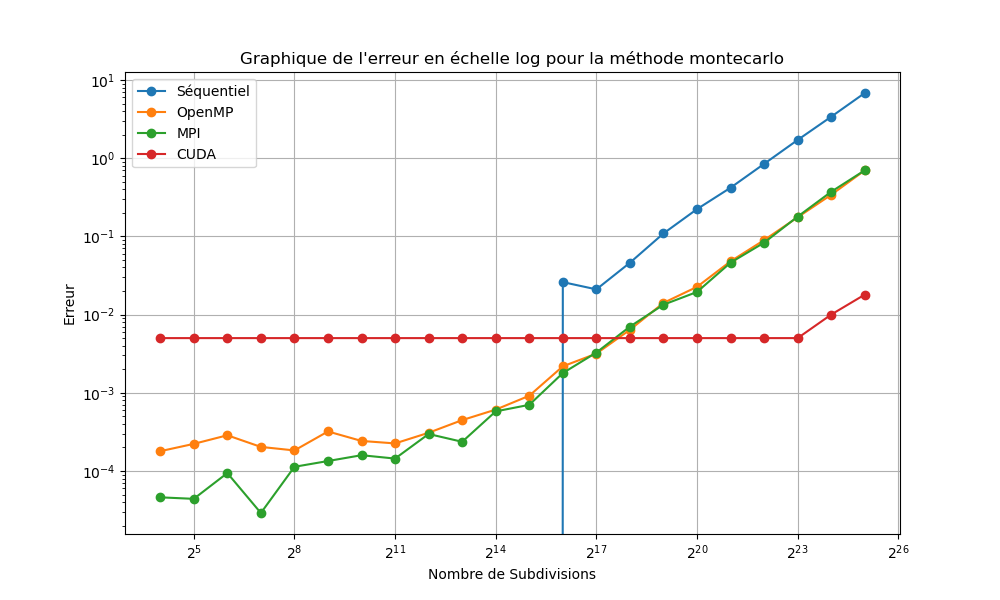
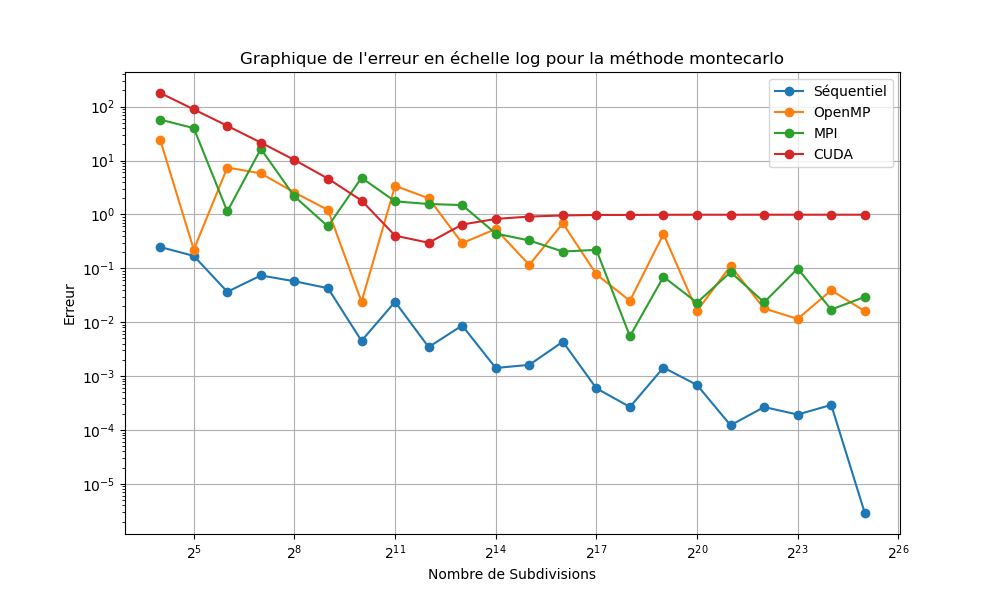
modif pour comparaison mpi vs openmp vs cuda

diff --git a/Cuda/graph_all.py b/Cuda/graph_all.py
@@ -59,10 +59,10 @@ plt.savefig(f'../Images/time_{label}.png')
 plt.show()
 
 plt.figure(figsize=(10, 6))
-plt.loglog(x, y_time_seq, '-o',label='Séquentiel')
-plt.loglog(x, y_time_omp,'-o' ,label='OpenMP')
-plt.loglog(x, y_time_mpi,'-o', label='MPI')
-plt.loglog(x, y_time_cuda,'-o', label='CUDA')
+plt.loglog(x, y_error_seq, '-o',label='Séquentiel')
+plt.loglog(x, y_error_omp,'-o' ,label='OpenMP')
+plt.loglog(x, y_error_mpi,'-o', label='MPI')
+plt.loglog(x, y_error_cuda,'-o', label='CUDA')
 plt.title(f'Graphique de l\'erreur en échelle log pour la méthode {label}')
 plt.xlabel('Nombre de Subdivisions')
 plt.ylabel('Erreur')
